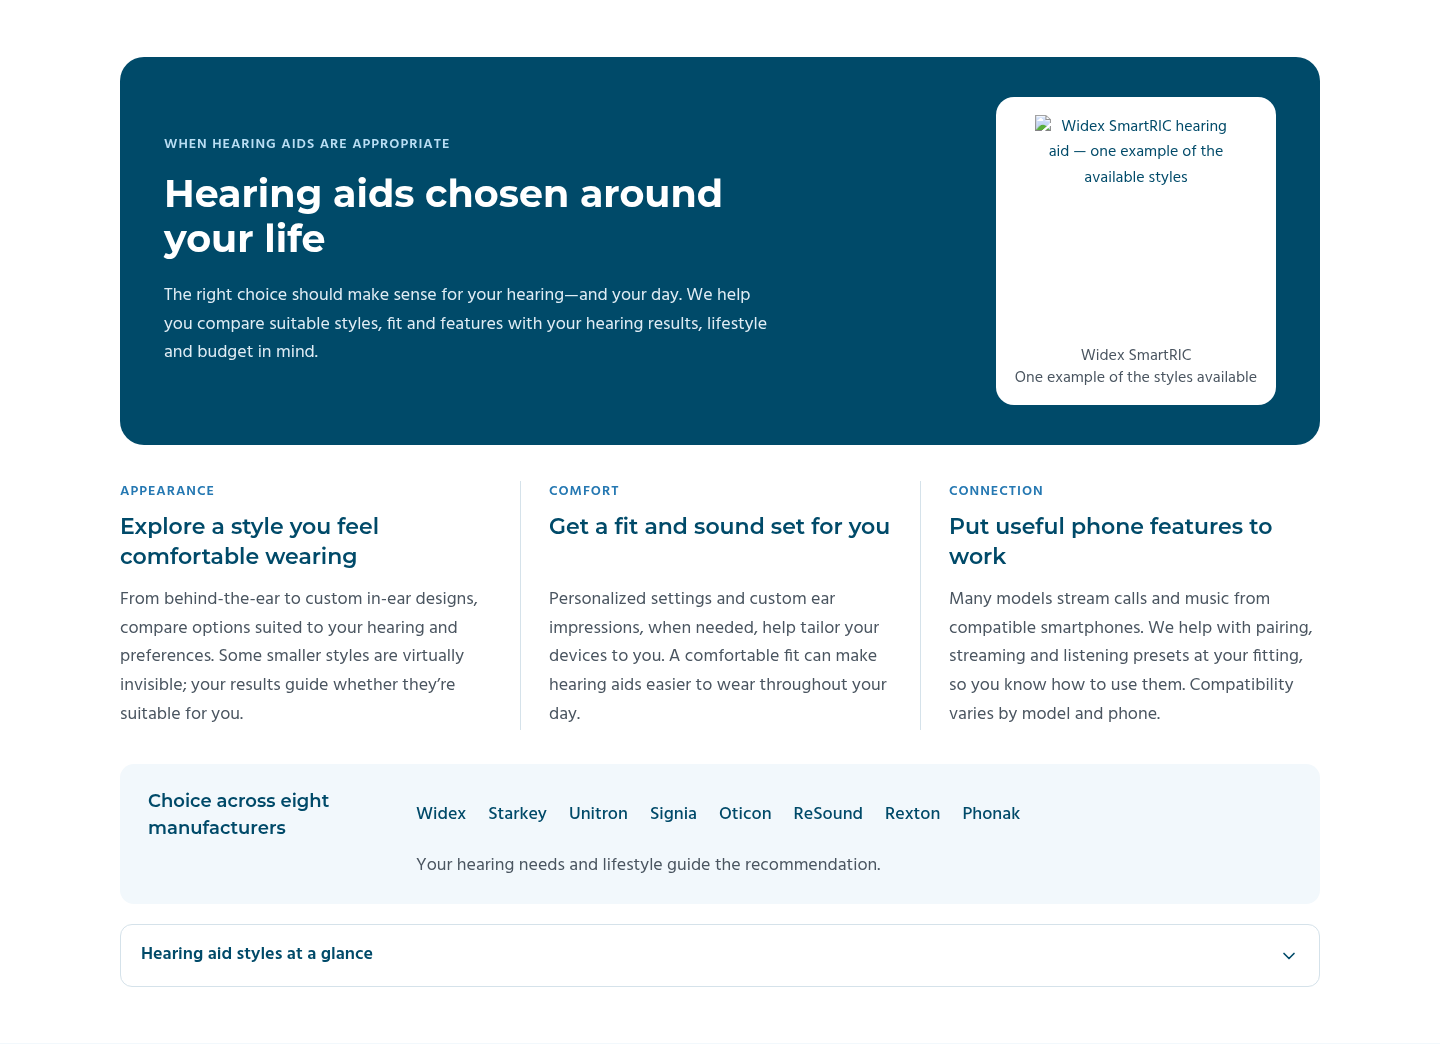
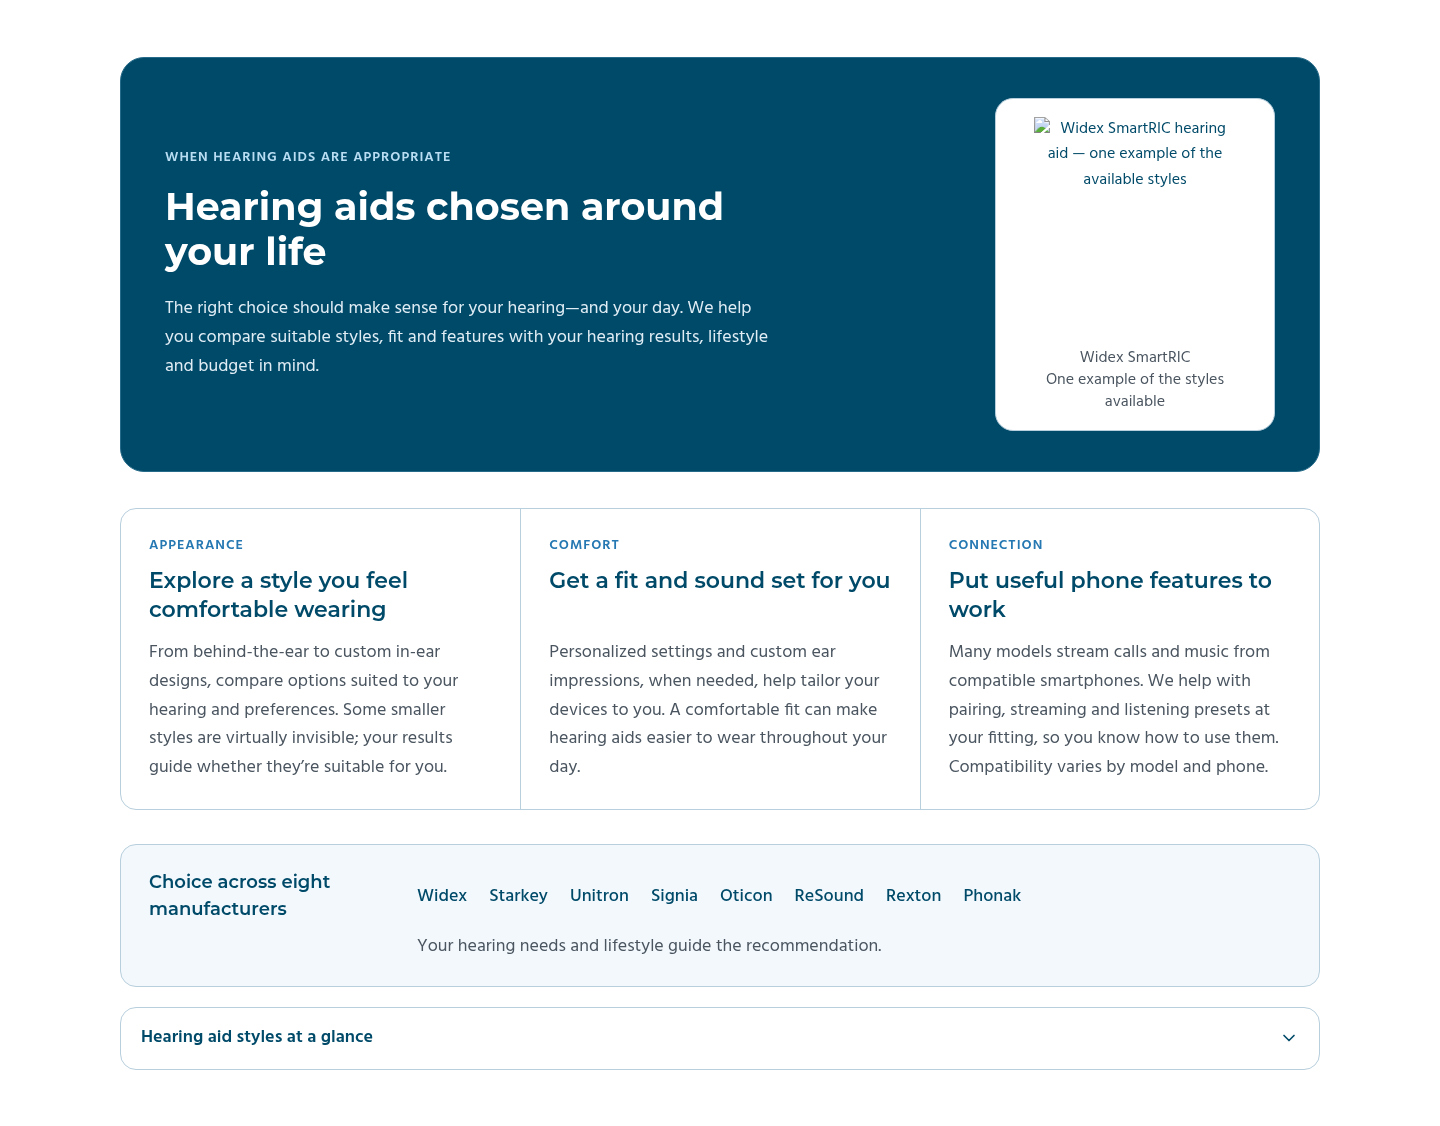
Unify borders and benefit dividers in options section

diff --git a/index.html b/index.html
@@ -500,36 +500,36 @@ a:hover{ color:var(--hc-navy); }
 .hc-section-cta > p{ font-family:var(--hc-head); font-weight:600; font-size:1.25rem; color:var(--hc-navy); }
 
 /* ---------- Options: focused product story and practical benefits ---------- */
-#options{ background:var(--hc-white); padding:56px 0; }
-.hc-options__intro{ display:grid; grid-template-columns:minmax(0,1fr) 280px; gap:52px; align-items:center; padding:40px 44px; border-radius:24px; background:var(--hc-navy); }
+#options{ --hc-options-border:#b8cfdd; background:var(--hc-white); padding:56px 0; }
+.hc-options__intro{ display:grid; grid-template-columns:minmax(0,1fr) 280px; gap:52px; align-items:center; padding:40px 44px; border:1px solid #266b89; border-radius:24px; background:var(--hc-navy); }
 .hc-options__eyebrow{ display:block; margin-bottom:16px; font-size:.875rem; font-weight:600; line-height:1.5; letter-spacing:.07em; color:#b9def4; text-transform:uppercase; }
 .hc-options__intro h2{ max-width:650px; color:var(--hc-white); }
 .hc-options__intro p{ margin-top:20px; font-size:1.125rem; line-height:1.6; color:#e0edf5; max-width:610px; }
-.hc-options__media{ margin:0; padding:18px 18px 16px; border-radius:18px; background:var(--hc-white); text-align:center; }
+.hc-options__media{ margin:0; padding:18px 18px 16px; border:1px solid var(--hc-options-border); border-radius:18px; background:var(--hc-white); text-align:center; }
 .hc-options__photo{ display:flex; justify-content:center; align-items:center; }
 .hc-options__photo img{ width:202px; height:220px; max-width:100%; object-fit:contain; color:var(--hc-navy); font-size:1rem; }
 .hc-options__media figcaption{ margin-top:10px; font-size:1rem; line-height:1.4; color:var(--hc-muted); }
-.hc-options__benefits{ display:grid; grid-template-columns:repeat(3,minmax(0,1fr)); gap:0; margin-top:36px; }
-.hc-options .hc-feature{ padding:0 28px; }
-.hc-options .hc-feature:first-child{ padding-left:0; }
-.hc-options .hc-feature:last-child{ padding-right:0; }
-.hc-options .hc-feature + .hc-feature{ border-left:1px solid var(--hc-border); }
+.hc-options__benefits{ display:grid; grid-template-columns:repeat(3,minmax(0,1fr)); gap:0; margin-top:36px; border:1px solid var(--hc-options-border); border-radius:16px; overflow:hidden; }
+.hc-options .hc-feature{ padding:26px 28px; }
+.hc-options .hc-feature + .hc-feature{ border-left:1px solid var(--hc-options-border); }
 .hc-options__label{ display:block; margin-bottom:10px; color:var(--hc-blue); font-size:.875rem; line-height:1.5; font-weight:600; letter-spacing:.07em; text-transform:uppercase; }
 .hc-options .hc-feature h3{ margin:0 0 14px; min-height:2.7em; font-size:1.375rem; line-height:1.35; }
 .hc-options .hc-feature p{ font-size:1.125rem; line-height:1.6; color:var(--hc-muted); }
 .hc-options__support{ margin-top:34px; }
-.hc-options .hc-brands{ display:grid; grid-template-columns:240px minmax(0,1fr); gap:10px 28px; padding:24px 28px; border-radius:14px; background:var(--hc-surface); }
+.hc-options .hc-brands{ display:grid; grid-template-columns:240px minmax(0,1fr); gap:10px 28px; padding:24px 28px; border:1px solid var(--hc-options-border); border-radius:16px; background:var(--hc-surface); }
 .hc-options .hc-brands h3{ font-size:1.125rem; line-height:1.5; font-weight:600; color:var(--hc-navy); }
 .hc-options .hc-brands ul{ list-style:none; margin:0; padding:0; display:flex; flex-wrap:wrap; gap:8px 22px; align-items:center; }
 .hc-options .hc-brands li{ font-weight:500; font-size:1.125rem; line-height:1.5; color:var(--hc-navy); }
 .hc-options .hc-brands p{ grid-column:2; font-size:1.125rem; line-height:1.6; color:var(--hc-muted); }
-.hc-options .hc-more{ margin-top:20px; }
+.hc-options .hc-more{ margin-top:20px; border:1px solid var(--hc-options-border); border-radius:16px; }
+.hc-options .hc-more[open] summary{ border-bottom:1px solid var(--hc-options-border); }
+.hc-options .hc-more[open] .hc-more__body{ padding-top:20px; }
 .hc-options .hc-more summary,.hc-options .hc-more__body,.hc-options .hc-more__body > p{ font-size:1.125rem; line-height:1.6; }
 .hc-options .hc-more__body dl{ grid-template-columns:repeat(2,minmax(0,1fr)); gap:22px 36px; }
 @media(max-width:1023px){
  .hc-options__intro{ grid-template-columns:minmax(0,1fr) 240px; gap:28px; padding:30px; }
  .hc-options__media{ padding:16px; }
- .hc-options .hc-feature{ padding:0 20px; }
+ .hc-options .hc-feature{ padding:24px 20px; }
  .hc-options .hc-feature h3{ min-height:4.05em; font-size:1.25rem; }
  .hc-options .hc-brands{ grid-template-columns:200px minmax(0,1fr); gap:10px 20px; padding:22px; }
 }
@@ -540,9 +540,9 @@ a:hover{ color:var(--hc-navy); }
  .hc-options__intro p{ margin-top:16px; }
  .hc-options__media{ width:100%; max-width:260px; justify-self:center; padding:14px; }
  .hc-options__photo img{ width:174px; height:190px; }
- .hc-options__benefits{ grid-template-columns:1fr; margin-top:28px; gap:24px; }
- .hc-options .hc-feature,.hc-options .hc-feature:first-child,.hc-options .hc-feature:last-child{ padding:0; border:0; }
- .hc-options .hc-feature + .hc-feature{ padding-top:24px; border-top:1px solid var(--hc-border); border-left:0; }
+ .hc-options__benefits{ grid-template-columns:1fr; margin-top:28px; gap:0; }
+ .hc-options .hc-feature{ padding:22px 20px; border:0; }
+ .hc-options .hc-feature + .hc-feature{ border-top:1px solid var(--hc-options-border); border-left:0; }
  .hc-options__label{ margin-bottom:8px; }
  .hc-options .hc-feature h3{ margin-bottom:10px; min-height:0; }
  .hc-options__support{ margin-top:28px; }

diff --git a/review/hero-review.html b/review/hero-review.html
@@ -500,36 +500,36 @@ a:hover{ color:var(--hc-navy); }
 .hc-section-cta > p{ font-family:var(--hc-head); font-weight:600; font-size:1.25rem; color:var(--hc-navy); }
 
 /* ---------- Options: focused product story and practical benefits ---------- */
-#options{ background:var(--hc-white); padding:56px 0; }
-.hc-options__intro{ display:grid; grid-template-columns:minmax(0,1fr) 280px; gap:52px; align-items:center; padding:40px 44px; border-radius:24px; background:var(--hc-navy); }
+#options{ --hc-options-border:#b8cfdd; background:var(--hc-white); padding:56px 0; }
+.hc-options__intro{ display:grid; grid-template-columns:minmax(0,1fr) 280px; gap:52px; align-items:center; padding:40px 44px; border:1px solid #266b89; border-radius:24px; background:var(--hc-navy); }
 .hc-options__eyebrow{ display:block; margin-bottom:16px; font-size:.875rem; font-weight:600; line-height:1.5; letter-spacing:.07em; color:#b9def4; text-transform:uppercase; }
 .hc-options__intro h2{ max-width:650px; color:var(--hc-white); }
 .hc-options__intro p{ margin-top:20px; font-size:1.125rem; line-height:1.6; color:#e0edf5; max-width:610px; }
-.hc-options__media{ margin:0; padding:18px 18px 16px; border-radius:18px; background:var(--hc-white); text-align:center; }
+.hc-options__media{ margin:0; padding:18px 18px 16px; border:1px solid var(--hc-options-border); border-radius:18px; background:var(--hc-white); text-align:center; }
 .hc-options__photo{ display:flex; justify-content:center; align-items:center; }
 .hc-options__photo img{ width:202px; height:220px; max-width:100%; object-fit:contain; color:var(--hc-navy); font-size:1rem; }
 .hc-options__media figcaption{ margin-top:10px; font-size:1rem; line-height:1.4; color:var(--hc-muted); }
-.hc-options__benefits{ display:grid; grid-template-columns:repeat(3,minmax(0,1fr)); gap:0; margin-top:36px; }
-.hc-options .hc-feature{ padding:0 28px; }
-.hc-options .hc-feature:first-child{ padding-left:0; }
-.hc-options .hc-feature:last-child{ padding-right:0; }
-.hc-options .hc-feature + .hc-feature{ border-left:1px solid var(--hc-border); }
+.hc-options__benefits{ display:grid; grid-template-columns:repeat(3,minmax(0,1fr)); gap:0; margin-top:36px; border:1px solid var(--hc-options-border); border-radius:16px; overflow:hidden; }
+.hc-options .hc-feature{ padding:26px 28px; }
+.hc-options .hc-feature + .hc-feature{ border-left:1px solid var(--hc-options-border); }
 .hc-options__label{ display:block; margin-bottom:10px; color:var(--hc-blue); font-size:.875rem; line-height:1.5; font-weight:600; letter-spacing:.07em; text-transform:uppercase; }
 .hc-options .hc-feature h3{ margin:0 0 14px; min-height:2.7em; font-size:1.375rem; line-height:1.35; }
 .hc-options .hc-feature p{ font-size:1.125rem; line-height:1.6; color:var(--hc-muted); }
 .hc-options__support{ margin-top:34px; }
-.hc-options .hc-brands{ display:grid; grid-template-columns:240px minmax(0,1fr); gap:10px 28px; padding:24px 28px; border-radius:14px; background:var(--hc-surface); }
+.hc-options .hc-brands{ display:grid; grid-template-columns:240px minmax(0,1fr); gap:10px 28px; padding:24px 28px; border:1px solid var(--hc-options-border); border-radius:16px; background:var(--hc-surface); }
 .hc-options .hc-brands h3{ font-size:1.125rem; line-height:1.5; font-weight:600; color:var(--hc-navy); }
 .hc-options .hc-brands ul{ list-style:none; margin:0; padding:0; display:flex; flex-wrap:wrap; gap:8px 22px; align-items:center; }
 .hc-options .hc-brands li{ font-weight:500; font-size:1.125rem; line-height:1.5; color:var(--hc-navy); }
 .hc-options .hc-brands p{ grid-column:2; font-size:1.125rem; line-height:1.6; color:var(--hc-muted); }
-.hc-options .hc-more{ margin-top:20px; }
+.hc-options .hc-more{ margin-top:20px; border:1px solid var(--hc-options-border); border-radius:16px; }
+.hc-options .hc-more[open] summary{ border-bottom:1px solid var(--hc-options-border); }
+.hc-options .hc-more[open] .hc-more__body{ padding-top:20px; }
 .hc-options .hc-more summary,.hc-options .hc-more__body,.hc-options .hc-more__body > p{ font-size:1.125rem; line-height:1.6; }
 .hc-options .hc-more__body dl{ grid-template-columns:repeat(2,minmax(0,1fr)); gap:22px 36px; }
 @media(max-width:1023px){
  .hc-options__intro{ grid-template-columns:minmax(0,1fr) 240px; gap:28px; padding:30px; }
  .hc-options__media{ padding:16px; }
- .hc-options .hc-feature{ padding:0 20px; }
+ .hc-options .hc-feature{ padding:24px 20px; }
  .hc-options .hc-feature h3{ min-height:4.05em; font-size:1.25rem; }
  .hc-options .hc-brands{ grid-template-columns:200px minmax(0,1fr); gap:10px 20px; padding:22px; }
 }
@@ -540,9 +540,9 @@ a:hover{ color:var(--hc-navy); }
  .hc-options__intro p{ margin-top:16px; }
  .hc-options__media{ width:100%; max-width:260px; justify-self:center; padding:14px; }
  .hc-options__photo img{ width:174px; height:190px; }
- .hc-options__benefits{ grid-template-columns:1fr; margin-top:28px; gap:24px; }
- .hc-options .hc-feature,.hc-options .hc-feature:first-child,.hc-options .hc-feature:last-child{ padding:0; border:0; }
- .hc-options .hc-feature + .hc-feature{ padding-top:24px; border-top:1px solid var(--hc-border); border-left:0; }
+ .hc-options__benefits{ grid-template-columns:1fr; margin-top:28px; gap:0; }
+ .hc-options .hc-feature{ padding:22px 20px; border:0; }
+ .hc-options .hc-feature + .hc-feature{ border-top:1px solid var(--hc-options-border); border-left:0; }
  .hc-options__label{ margin-bottom:8px; }
  .hc-options .hc-feature h3{ margin-bottom:10px; min-height:0; }
  .hc-options__support{ margin-top:28px; }

diff --git a/review/OPTIONS_REVIEW.md b/review/OPTIONS_REVIEW.md
@@ -36,3 +36,8 @@ Production font families were rendered using locally cached fonts. Actual produc
 The user’s latest GHL screenshots confirm the existing Widex product image loads and show its actual appearance. Keep that authentic, labelled model example, with a compact frame rather than the oversized rounded white plate. The approved H2 remains. A navy introduction creates a focal point on the white canvas; three editorial benefits use appearance, comfort and connection labels with short practical explanations. Remove decorative icon circles and reduce duplication. Desktop benefit text aligns; mobile stacks with horizontal rules, preserving 18px body text. The manufacturer strip now uses plain text instead of button-like chips. The original style guide remains complete, with a two-column expanded layout on desktop and one column on mobile.
 
 All other sections and integrations are unchanged by exact source comparison. Updated seven-width rendering and keyboard disclosure checks cover the revision. Local product fetch remains blocked, so local screenshots show missing-image alt content; the actual asset was observed in the user’s GHL screenshots. Pending the user's rendered approval; not locked.
+
+
+## User-requested border refinement
+
+Use one consistent #b8cfdd border treatment for the product frame, shared three-benefit enclosure, manufacturer panel and style disclosure. Desktop benefit columns have matching internal vertical dividers; mobile stacks within the same rounded enclosure with horizontal separators and no stray left borders or double edges. Open style guide gains a clear separator below its summary and padded body. Navy intro has a subtle tonal outline. Copy, typography, other sections and integrations remain unchanged. Awaiting rendered review.

diff --git a/DESIGN_SYSTEM.md b/DESIGN_SYSTEM.md
@@ -246,3 +246,8 @@ Imagery: authentic in-hand photo remains preferred but is not available. Use the
 ## Options revision after updated GHL screenshots
 
 User requested stronger design and content. Keep the approved headline and conditional hearing-aid premise. Replace the low-contrast image-led opening with a compact navy introduction, white headline, and a modest labelled product frame sized to the existing asset. White canvas and three editorial benefit columns focus on appearance, comfort and connection; mobile stacks them with simple dividers. Shorten repeated prose and integrate compatibility/suitability qualifications. Keep the original style guide and all eight brands, now shown as plain text in a supporting strip rather than button-like chips. Main prose stays 18px. No CTA, other section or integration changes. Existing product URL remains; its actual appearance is supported by the user’s new GHL screenshots, while remote retrieval is blocked locally. No generated product imagery. Awaiting rendered review, not locked.
+
+
+## User-requested border refinement
+
+Use one consistent #b8cfdd border treatment for the product frame, shared three-benefit enclosure, manufacturer panel and style disclosure. Desktop benefit columns have matching internal vertical dividers; mobile stacks within the same rounded enclosure with horizontal separators and no stray left borders or double edges. Open style guide gains a clear separator below its summary and padded body. Navy intro has a subtle tonal outline. Copy, typography, other sections and integrations remain unchanged. Awaiting rendered review.
